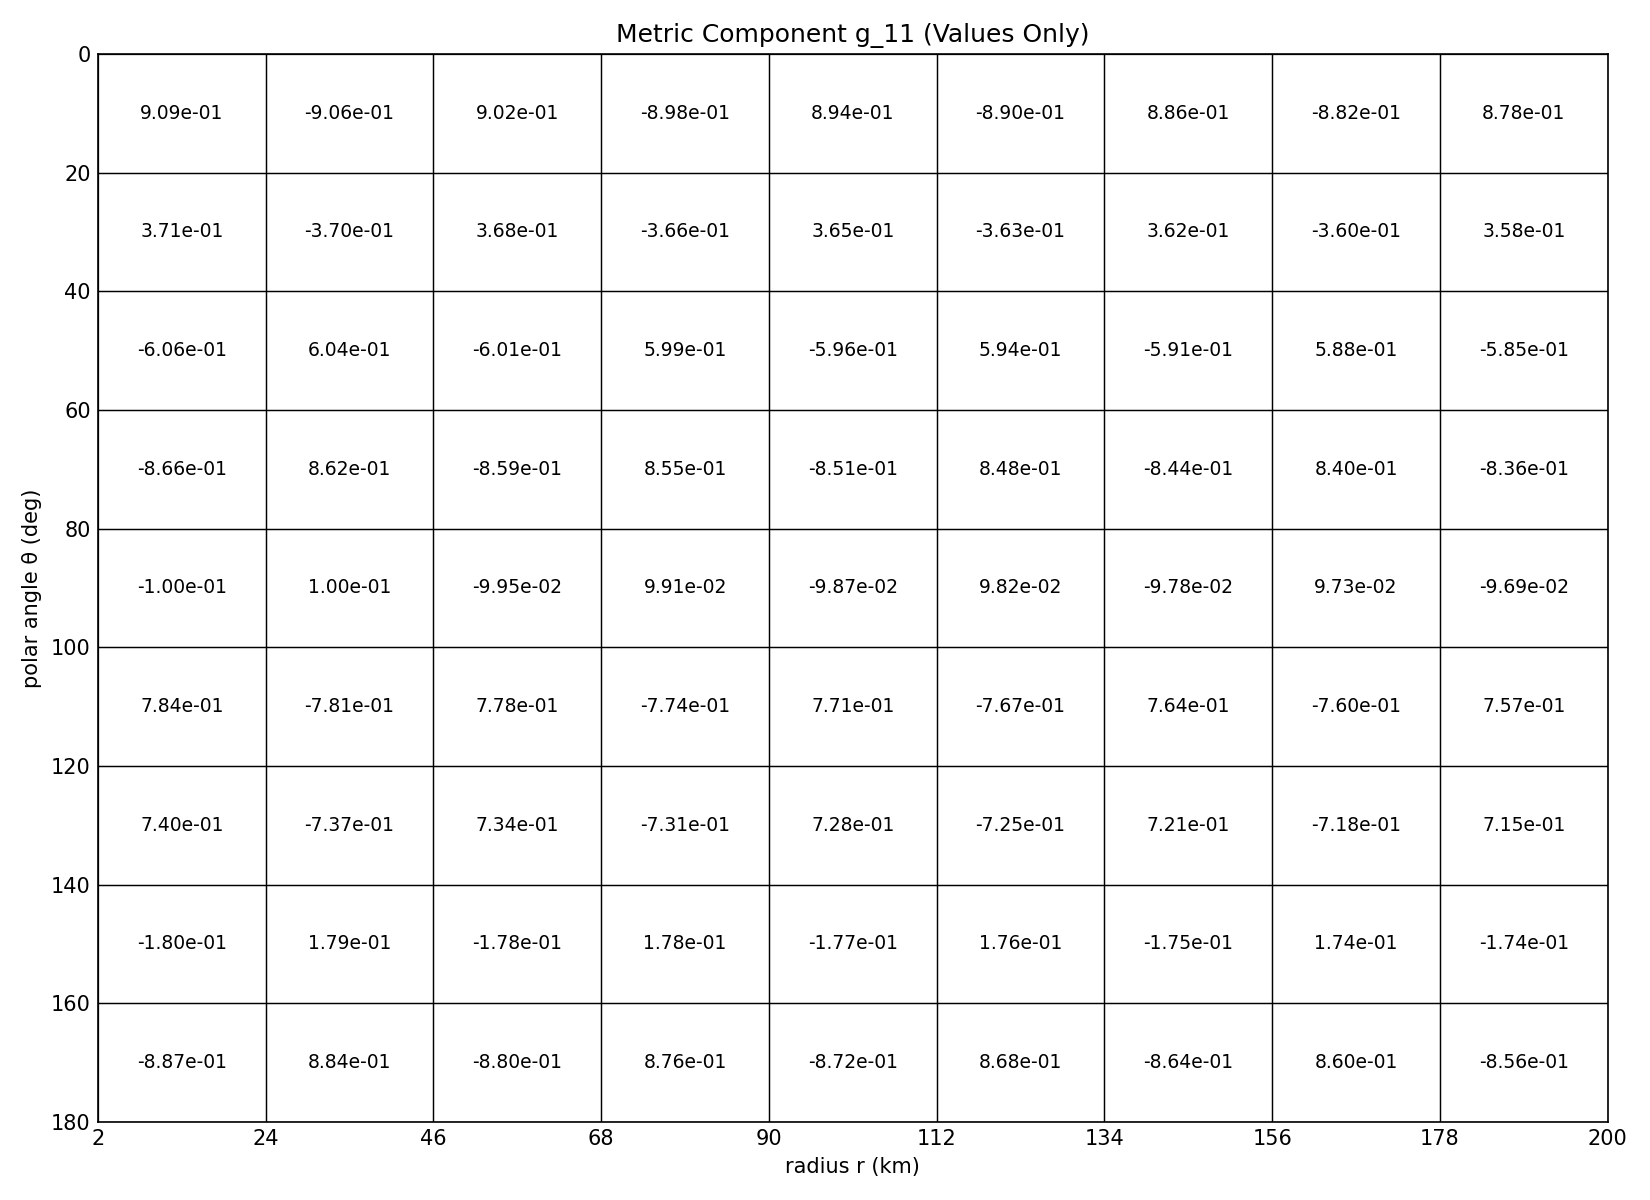
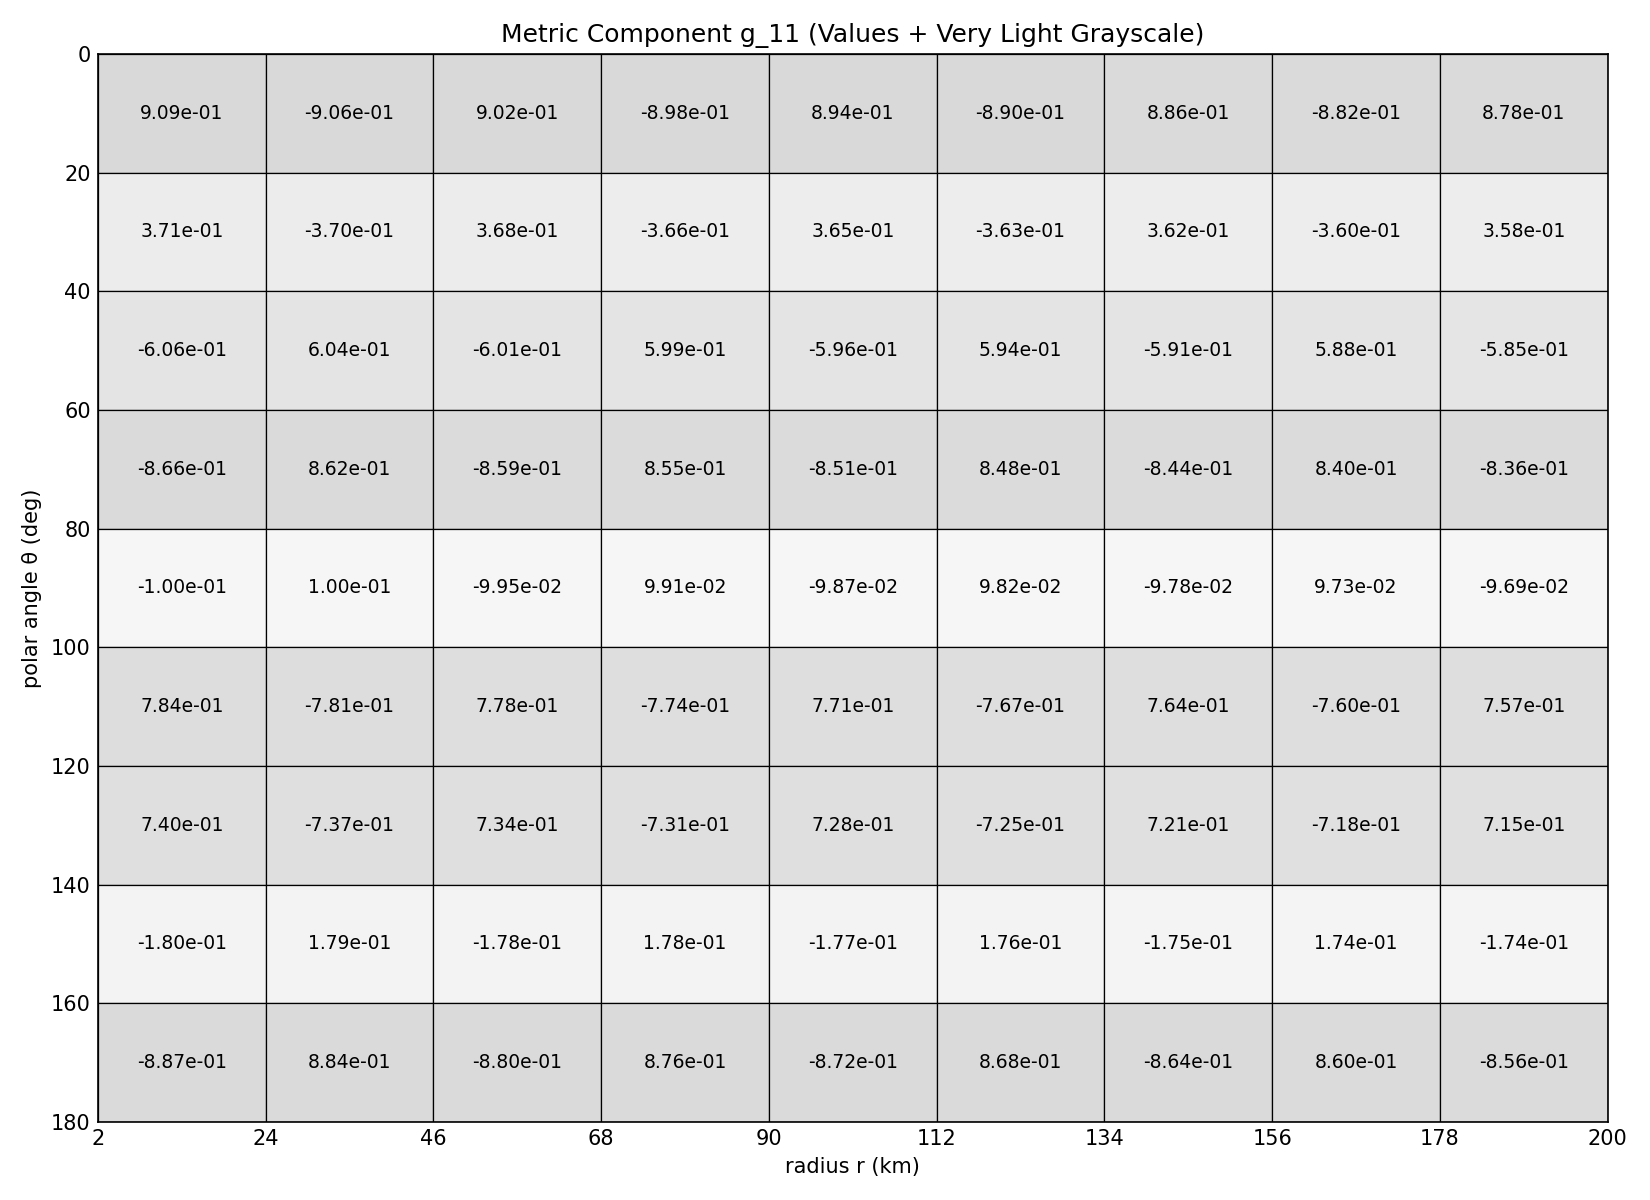
Enhance metric tensor plot with grayscale shading
Updated the metric tensor plotting function to add very light grayscale backgrounds to grid cells based on normalized metric values, improving visual clarity. Also fixed a method name typo and added a backward-compatible alias for stress-energy coefficient setters.

diff --git a/spacetimeengine/src/spacetime.py b/spacetimeengine/src/spacetime.py
@@ -626,6 +626,32 @@ class SpaceTime:
                                                             [ 0, 0, 0, 0 ], 
                                                             [ 0, 0, 0, 0 ], 
                                                             [ 0, 0, 0, 0 ], 
+                                                            [ 0, 0, 0, 0 ]
+                                                        ]
+                                                   ],
+                                                   [    
+                                                        [
+                                                            [ 0, 0, 0, 0 ], 
+                                                            [ 0, 0, 0, 0 ], 
+                                                            [ 0, 0, 0, 0 ], 
+                                                            [ 0, 0, 0, 0 ]
+                                                        ],
+                                                        [
+                                                            [ 0, 0, 0, 0 ], 
+                                                            [ 0, 0, 0, 0 ], 
+                                                            [ 0, 0, 0, 0 ], 
+                                                            [ 0, 0, 0, 0 ]
+                                                        ],
+                                                        [
+                                                            [ 0, 0, 0, 0 ], 
+                                                            [ 0, 0, 0, 0 ], 
+                                                            [ 0, 0, 0, 0 ], 
+                                                            [ 0, 0, 0, 0 ]
+                                                        ],
+                                                        [
+                                                            [ 0, 0, 0, 0 ], 
+                                                            [ 0, 0, 0, 0 ], 
+                                                            [ 0, 0, 0, 0 ], 
                                                             [  0, 0, 0, 0 ]
                                                         ]
                                                    ],
@@ -1758,7 +1784,7 @@ class SpaceTime:
         else:
             print("Invalid index_config string.") 
     
-    def print_all_weyl_coefficients(self, index_config):
+    def print_all_weyl_coefficient(self, index_config):
         """
         Description
         ===========
@@ -2569,6 +2595,10 @@ class SpaceTime:
                         self.print_stress_energy_coefficient(index_config, mu, nu)
         else:
             print("Invalid index_config string.")
+
+    # Backward-compat alias (old singular name)
+    def set_all_stress_energy_coefficient(self, index_config):
+        return self.set_all_stress_energy_coefficients(index_config)
     
     def compute_stress_energy_coefficient(self, index_config, mu, nu):
         r"""
@@ -3093,8 +3123,9 @@ class SpaceTime:
                                 save_path=None, dpi=150, index_config="dd",
                                 x_label=None, y_label=None):
         """
-        Plot selected metric component as a plain grid with numeric values only
-        (no grayscale background) and save as metric_tensor_plot.png unless overridden.
+        Plot selected metric component as a grid with numeric values and a very
+        light grayscale background per cell, and save as metric_tensor_plot.png
+        unless overridden.
         """
         if save_path is None:
             save_path = os.path.join(os.getcwd(), "metric_tensor_plot.png")
@@ -3127,9 +3158,9 @@ class SpaceTime:
         lab = f"g_{mu}{nu}" if index_config == "dd" else f"g^{mu}{nu}"
         ax.set_xlabel(x_label if x_label else str(x_sym))
         ax.set_ylabel(y_label if y_label else str(y_sym))
-        ax.set_title(f"Metric Component {lab} (Values Only)")
+        ax.set_title(f"Metric Component {lab} (Values + Very Light Grayscale)")
 
-        # Draw plain grid boxes (no fill)
+        # Draw grid boxes with very light grayscale background
         from matplotlib.patches import Rectangle
         if len(x_vals) > 1 and len(y_vals) > 1:
             dx = x_vals[1] - x_vals[0]
@@ -3137,11 +3168,30 @@ class SpaceTime:
         else:
             dx = dy = 1.0
 
+        # Determine a symmetric scaling for subtle grayscale shading
+        vmax = np.nanmax(np.abs(comp_grid))
+        if not np.isfinite(vmax) or vmax == 0:
+            vmax = 1.0  # avoid divide by zero; keeps cells very light
+
+        shade_max = 0.98  # nearly white
+        shade_min = 0.85  # very light gray
+
         for i, xv in enumerate(x_vals[:-1]):
             for j, yv in enumerate(y_vals[:-1]):
+                val = comp_grid[j, i]
+                if np.isfinite(val):
+                    norm_abs = min(abs(val) / vmax, 1.0)
+                else:
+                    norm_abs = 0.0
+                shade = shade_max - (shade_max - shade_min) * norm_abs
                 ax.add_patch(
-                    Rectangle((xv, yv), dx, dy, fill=False,
-                              edgecolor="black", linewidth=0.6)
+                    Rectangle(
+                        (xv, yv), dx, dy,
+                        fill=True,
+                        facecolor=(shade, shade, shade, 1.0),
+                        edgecolor="black",
+                        linewidth=0.6
+                    )
                 )
 
         # Annotate each cell center
